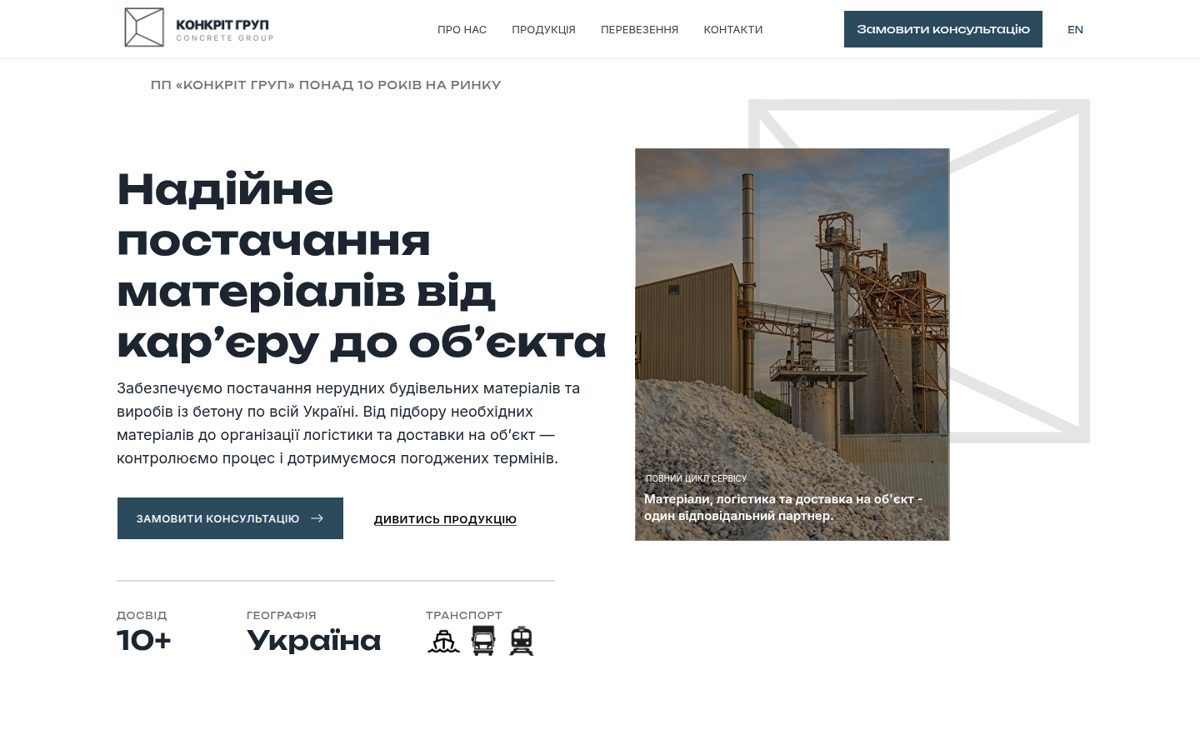
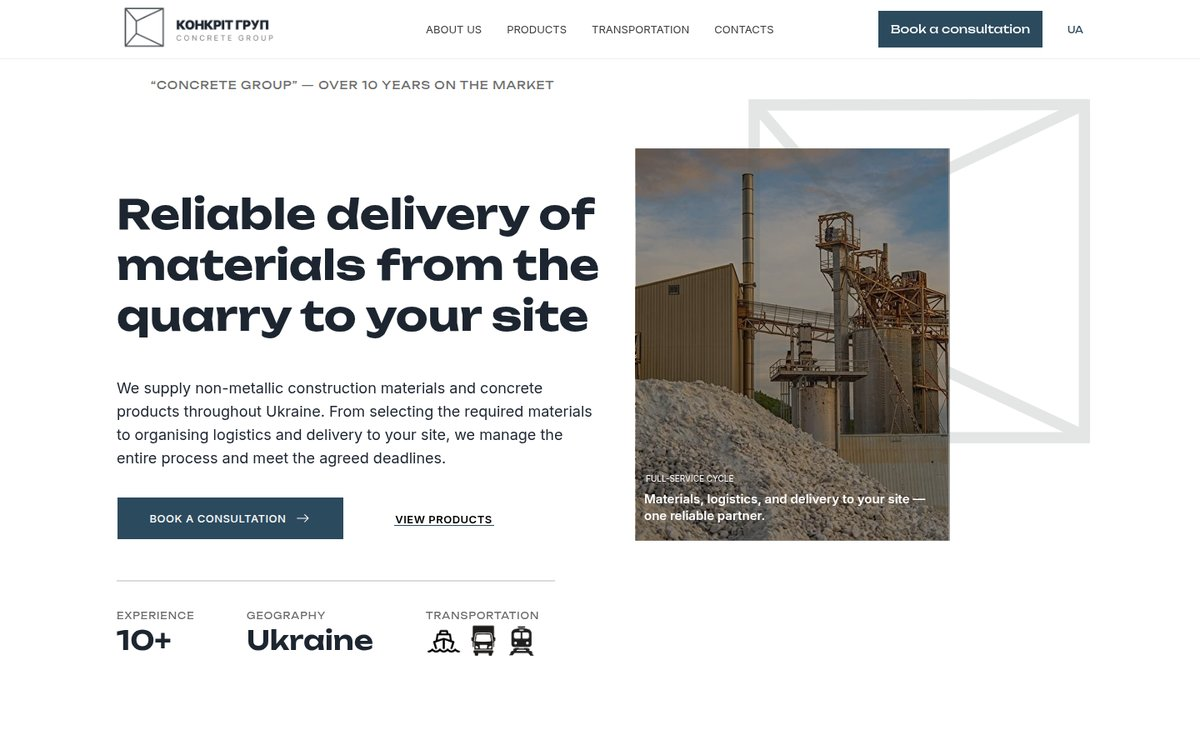
Portfolio: Concrete Group (EN) first card
Claude-Session: https://claude.ai/code/session_01TdSnaQHYwy6szm4QC3HpAJ

diff --git a/index.html b/index.html
@@ -149,6 +149,13 @@ footer{font-size:13px;color:var(--mute);padding-top:20px}
     <h2>Selected work</h2>
     <p class="sub">Every card says what I did myself. Click a card to open the live site; sites with an English version open in English, the rest are marked with their language.</p>
     <div class="projects">
+      <a class="proj" href="https://concretegroup.com.ua/en" target="_blank" rel="noopener">
+        <div class="shot"><span class="sheen"></span><img src="img/concretegroup.jpg" alt="concretegroup.com.ua English home page" loading="lazy"></div>
+        <h3>Concrete Group <small>building materials &amp; logistics, Odesa</small></h3>
+        <p>Landing page for a construction materials supplier in two languages: products, transportation, consultation form.</p>
+        <div class="role"><b>My part:</b> structure, design and every block on Tilda, English version, copy written with AI from the client's brief, lead form</div>
+        <div class="tags"><span class="tag">Tilda</span><span class="tag">Design + build</span><span class="tag">AI-assisted copy</span><span class="tag">EN / UK</span><span class="tag">2026</span></div>
+      </a>
       <a class="proj" href="https://villa-mafa.com.ua/en/" target="_blank" rel="noopener">
         <div class="shot"><span class="sheen"></span><img src="img/villa-mafa.jpg" alt="villa-mafa.com.ua home page" loading="lazy"></div>
         <h3>Villa MAFA <small>hotel, Carpathians</small></h3>
@@ -248,7 +255,6 @@ footer{font-size:13px;color:var(--mute);padding-top:20px}
       <a href="https://hot-chocolate.com.ua/" target="_blank" rel="noopener"><img src="img/hot-chocolate.jpg" alt="" loading="lazy"><div><b>Hot Chocolate hotel</b><span>Tilda · moved and redesigned · UK</span></div></a>
       <a href="https://aquakoblevo.net/" target="_blank" rel="noopener"><img src="img/aquakoblevo.jpg" alt="" loading="lazy"><div><b>Aquapark Koblevo</b><span>Tilda · booking widget · design + build · UK</span></div></a>
       <a href="https://garant-plus-service.com.ua/" target="_blank" rel="noopener"><img src="img/garant-plus.jpg" alt="" loading="lazy"><div><b>Garant Plus Service</b><span>Tilda · landing · text written with AI · UK</span></div></a>
-      <a href="https://concretegroup.com.ua/" target="_blank" rel="noopener"><img src="img/concretegroup.jpg" alt="" loading="lazy"><div><b>Concrete Group</b><span>Tilda · landing · text written with AI · UK · 2026</span></div></a>
     </div>
   </section>
 
